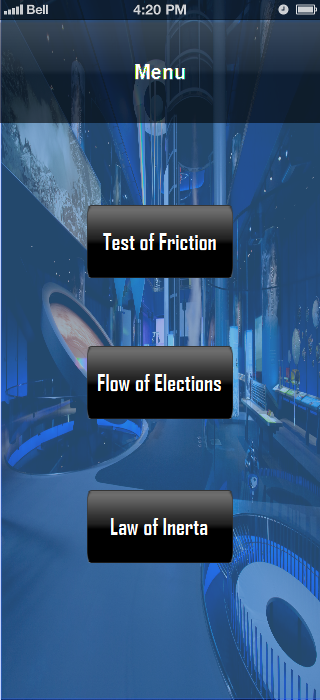
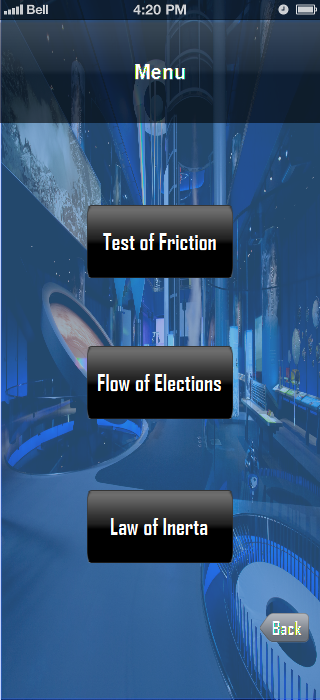
nav changes

Changed region(s): [[0.8125, 0.87, 0.9688, 0.93]]

diff --git a/Science Museum App Final/Page.html b/Science Museum App Final/Page.html
@@ -25,21 +25,35 @@
         <img id= "myImage" src="images/entrance.png" width="320" height="700" usemap="#map_menu" class="background">
 		<img id= "mygif" src="images/desktop_pc.jpg" width="0" height="0" class="gif">
         <map name="map_menu">
-         <area id = "myArea1" shape="rect" coords="1,429,321,473" onclick= "ChangeImage(areaOnclick[page])"/>
-         <area id = "myArea2" shape="rect" coords="0,0,0,0" onclick= "ChangeImage(areaOnclick2[page])" />
-         <area id = "myArea3" shape="rect" coords="0,0,0,0" onclick= "ChangeImage(areaOnclick3[page])" />
+         <area id = "myArea1" shape="rect" coords="1,429,321,473" onmouseover="ChangeImage(areaHover1[page])" onmouseout="ChangeImage(leave[page])" onclick="ChangeImage(areaOnclick[page])"/>
+         <area id = "myArea2" shape="rect" coords="0,0,0,0" onmouseover="ChangeImage(areaHover2[page])" onmouseout="ChangeImage(leave[page])" onclick= "ChangeImage(areaOnclick2[page])" />
+         <area id = "myArea3" shape="rect" coords="0,0,0,0" onmouseover="ChangeImage(areaHover3[page])" onmouseout="ChangeImage(leave[page])" onclick= "ChangeImage(areaOnclick3[page])" />
+	 <area id = "myArea4" shape="rect" coords="0,0,0,0" onclick= "ChangeImage(areaOnclick4[page])" />
         </map>
     <script>
     var page = 0;
-    var ImageList = ["images/entrance.png", "images/menu.png", "images/test_of_friction.png","images/flow_of_electrons.png","images/law_of_inerta.png"];
+    var ImageList = ["images/entrance.png", "images/menu.png", "images/test_of_friction.png","images/flow_of_electrons.png","images/law_of_inerta.png", "images/hover1.png", "images/hover2.png", "images/hover3.png", "images/entrance hover.png"];
 	var GifList = ["images/desktop_pc.jpg", "images/desktop_pc.jpg", "images/Swinging-Pengulum.gif","images/electrons law.gif","images/inerta ball.gif"];
-    var areaCoorList = ["1,429,321,473","0,0,0,0","0,0,0,0","87,205,233,278","87,346,233,419","87,490,233,563","259,613,309,643","0,0,0,0","0,0,0,0","259,613,309,643","0,0,0,0","0,0,0,0","259,613,309,643","0,0,0,0","0,0,0,0"];
-	var gifWidthList = ["0","0","255","255","255"];
-	var gifHeightList = ["0","0","275","275","275"];
-     var areaOnclick = [1, 2, 1, 1, 1];
-     var areaOnclick2 = [5, 3, 5, 5, 5];
-     var areaOnclick3 = [5, 4, 5, 5, 5];
-     var areaIdLoop = ["myArea1","myArea2","myArea3"];
+    var areaCoorList = ["1,429,321,473","0,0,0,0","0,0,0,0","0,0,0,0",
+			"87,205,233,278","87,346,233,419","87,490,233,563","259,613,309,643",
+			"259,613,309,643","0,0,0,0","0,0,0,0","0,0,0,0",
+			"259,613,309,643","0,0,0,0","0,0,0,0","0,0,0,0",
+			"259,613,309,643","0,0,0,0","0,0,0,0","0,0,0,0", 
+			"87,205,233,278","87,346,233,419","87,490,233,563","259,613,309,643", 
+			"87,205,233,278","87,346,233,419","87,490,233,563","259,613,309,643", 
+			"87,205,233,278","87,346,233,419","87,490,233,563","259,613,309,643", 
+			"1,429,321,473","0,0,0,0","0,0,0,0","0,0,0,0"];
+	var gifWidthList = ["0","0","255","255","255","0","0","0","0"];
+	var gifHeightList = ["0","0","275","275","275","0","0","0","0"];
+     var areaOnclick = [1, 2, 1, 1, 1, 2, 2, 2, 1];
+     var areaOnclick2 = [5, 3, 5, 5, 5, 3, 3, 3, 0];
+     var areaOnclick3 = [5, 4, 5, 5, 5, 4, 4, 4, 0];
+     var areaOnclick4 = [5, 0, 5, 5, 5, 0, 0, 0, 0];
+     var areaHover1 = [8, 5, 2, 3, 4, 5, 5, 5, 0];
+     var areaHover2 = [0, 6, 2, 3, 4, 6, 6, 6, 0];
+     var areaHover3 = [0, 7, 2, 3, 4, 7, 7, 7, 0];
+     var leave = [0, 1, 2, 3, 4, 1, 1, 1, 0];
+     var areaIdLoop = ["myArea1","myArea2","myArea3", "myArea4"];
     function ChangeImage(int)
     {     
       page = int;
@@ -51,8 +65,8 @@
 	  gif1.src = GifList[int];
 	  gif1.width = gifWidthList[int];
 	  gif1.height = gifHeightList[int];
-      var int2 = intarraynum*3;   
-     while (intloop < 3) 
+      var int2 = intarraynum*4;   
+     while (intloop < 4) 
     {       
        var area1 = document.getElementById(areaIdLoop[intloop]);
        area1.coords = areaCoorList[int2];
